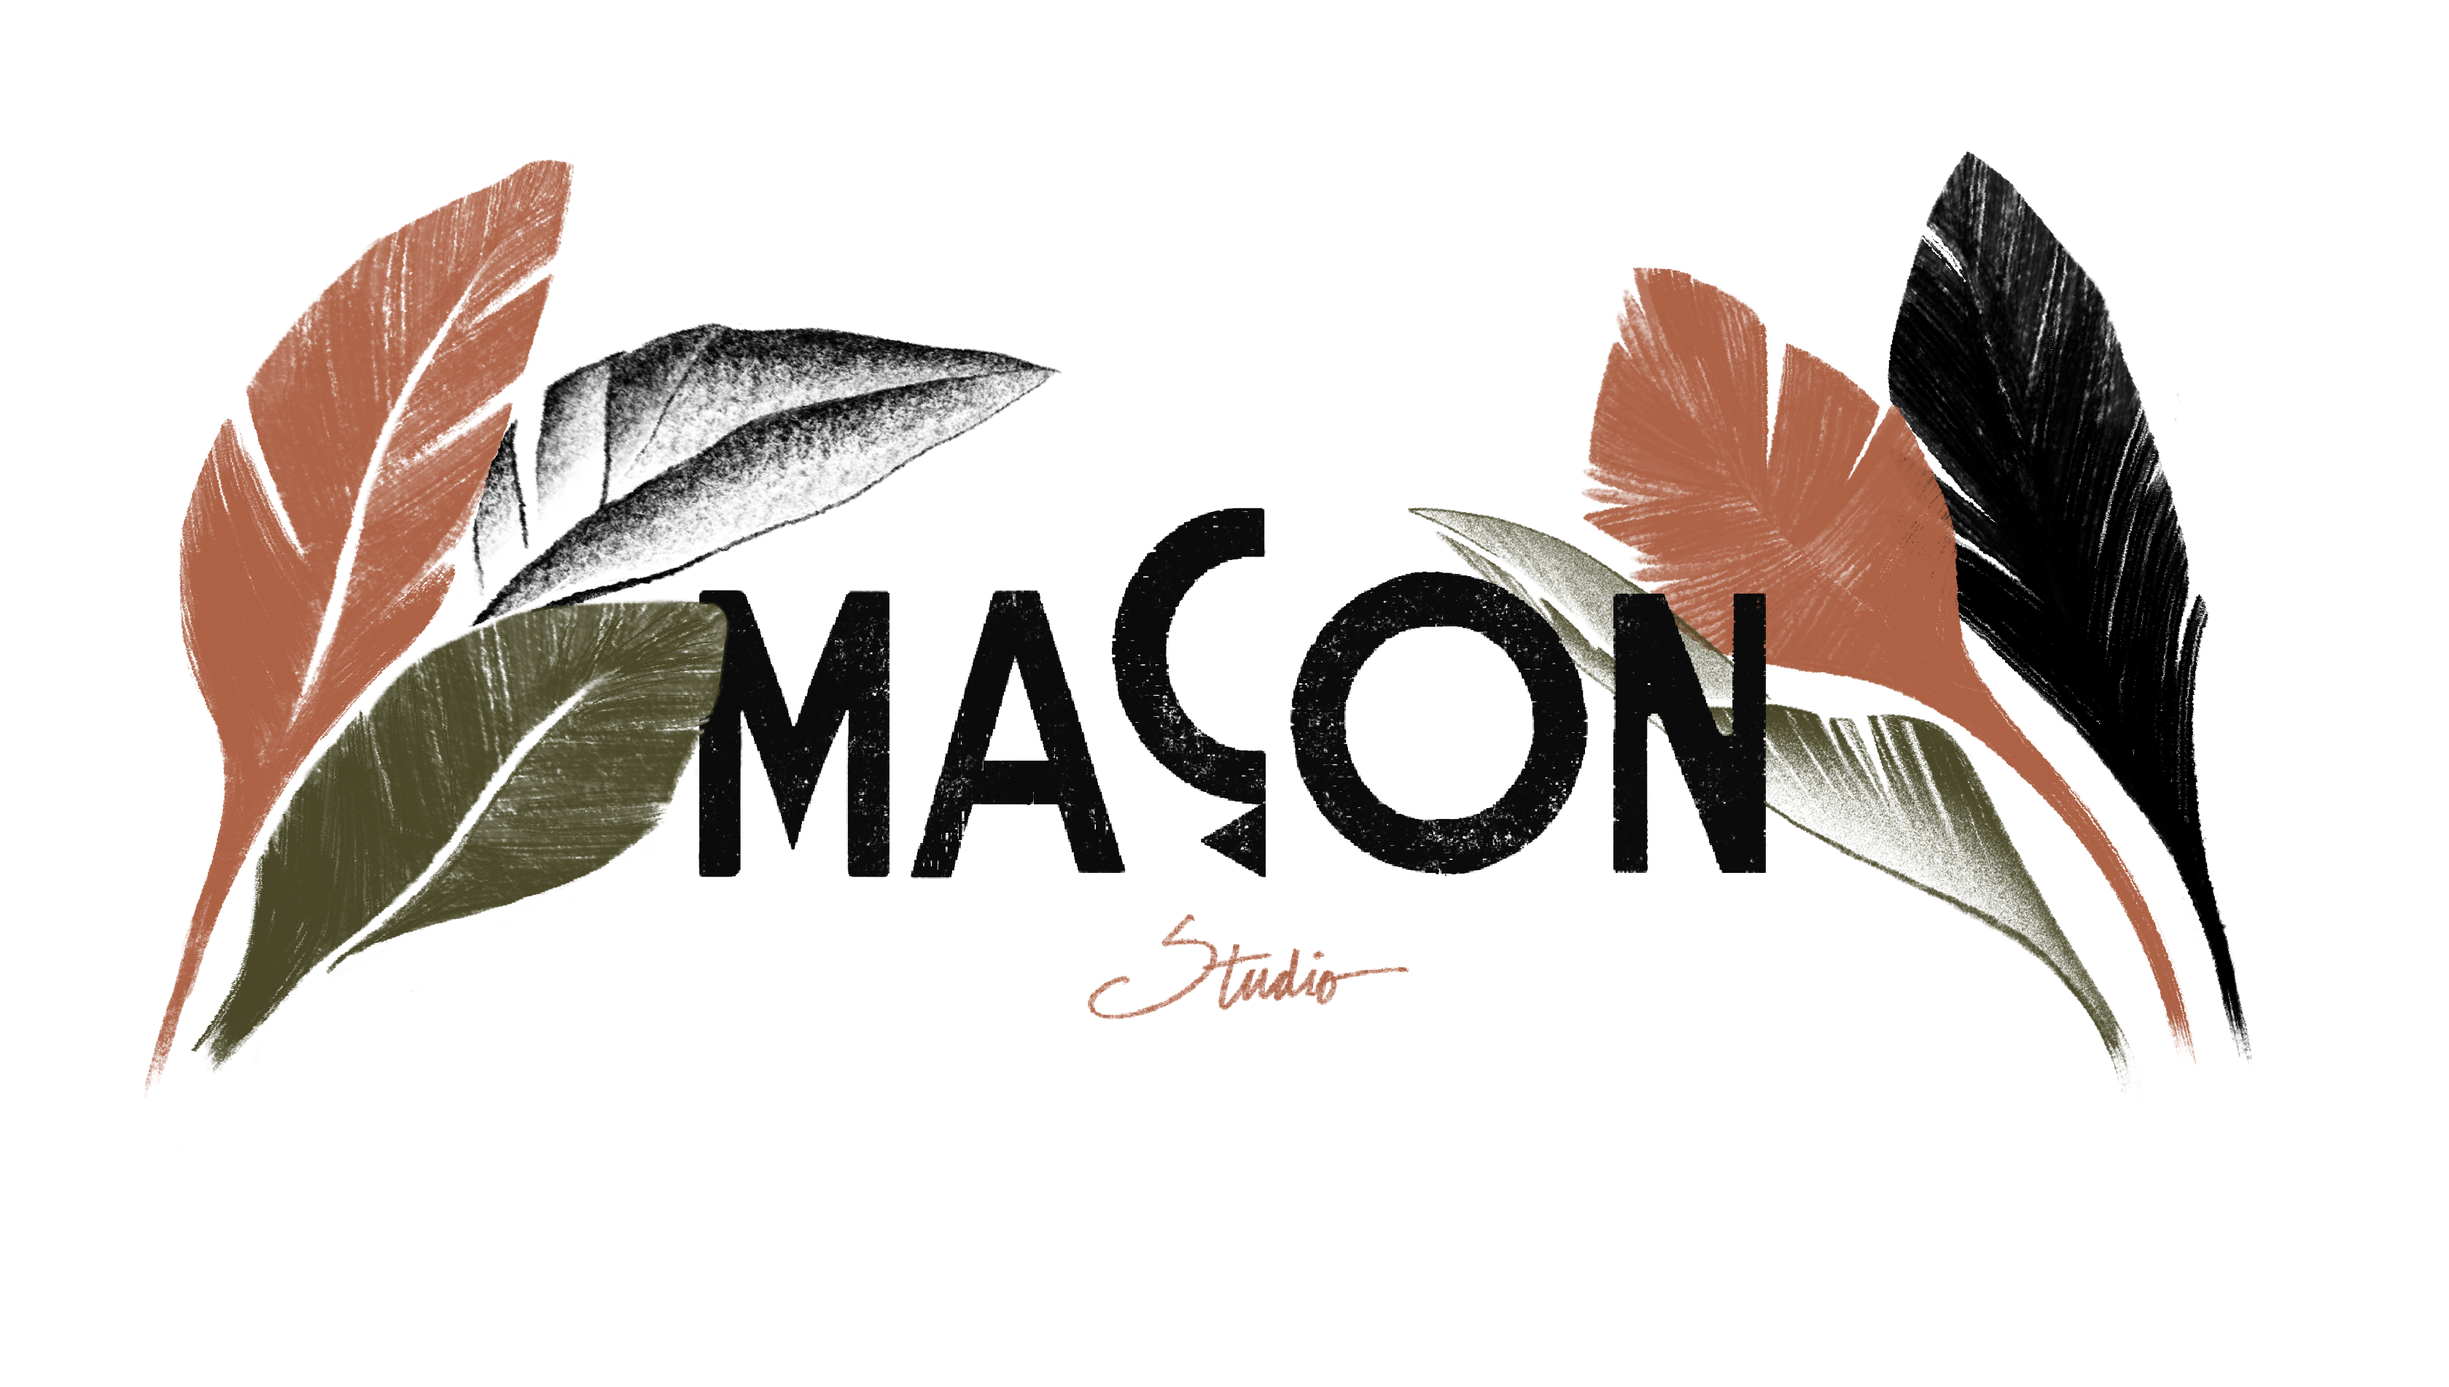
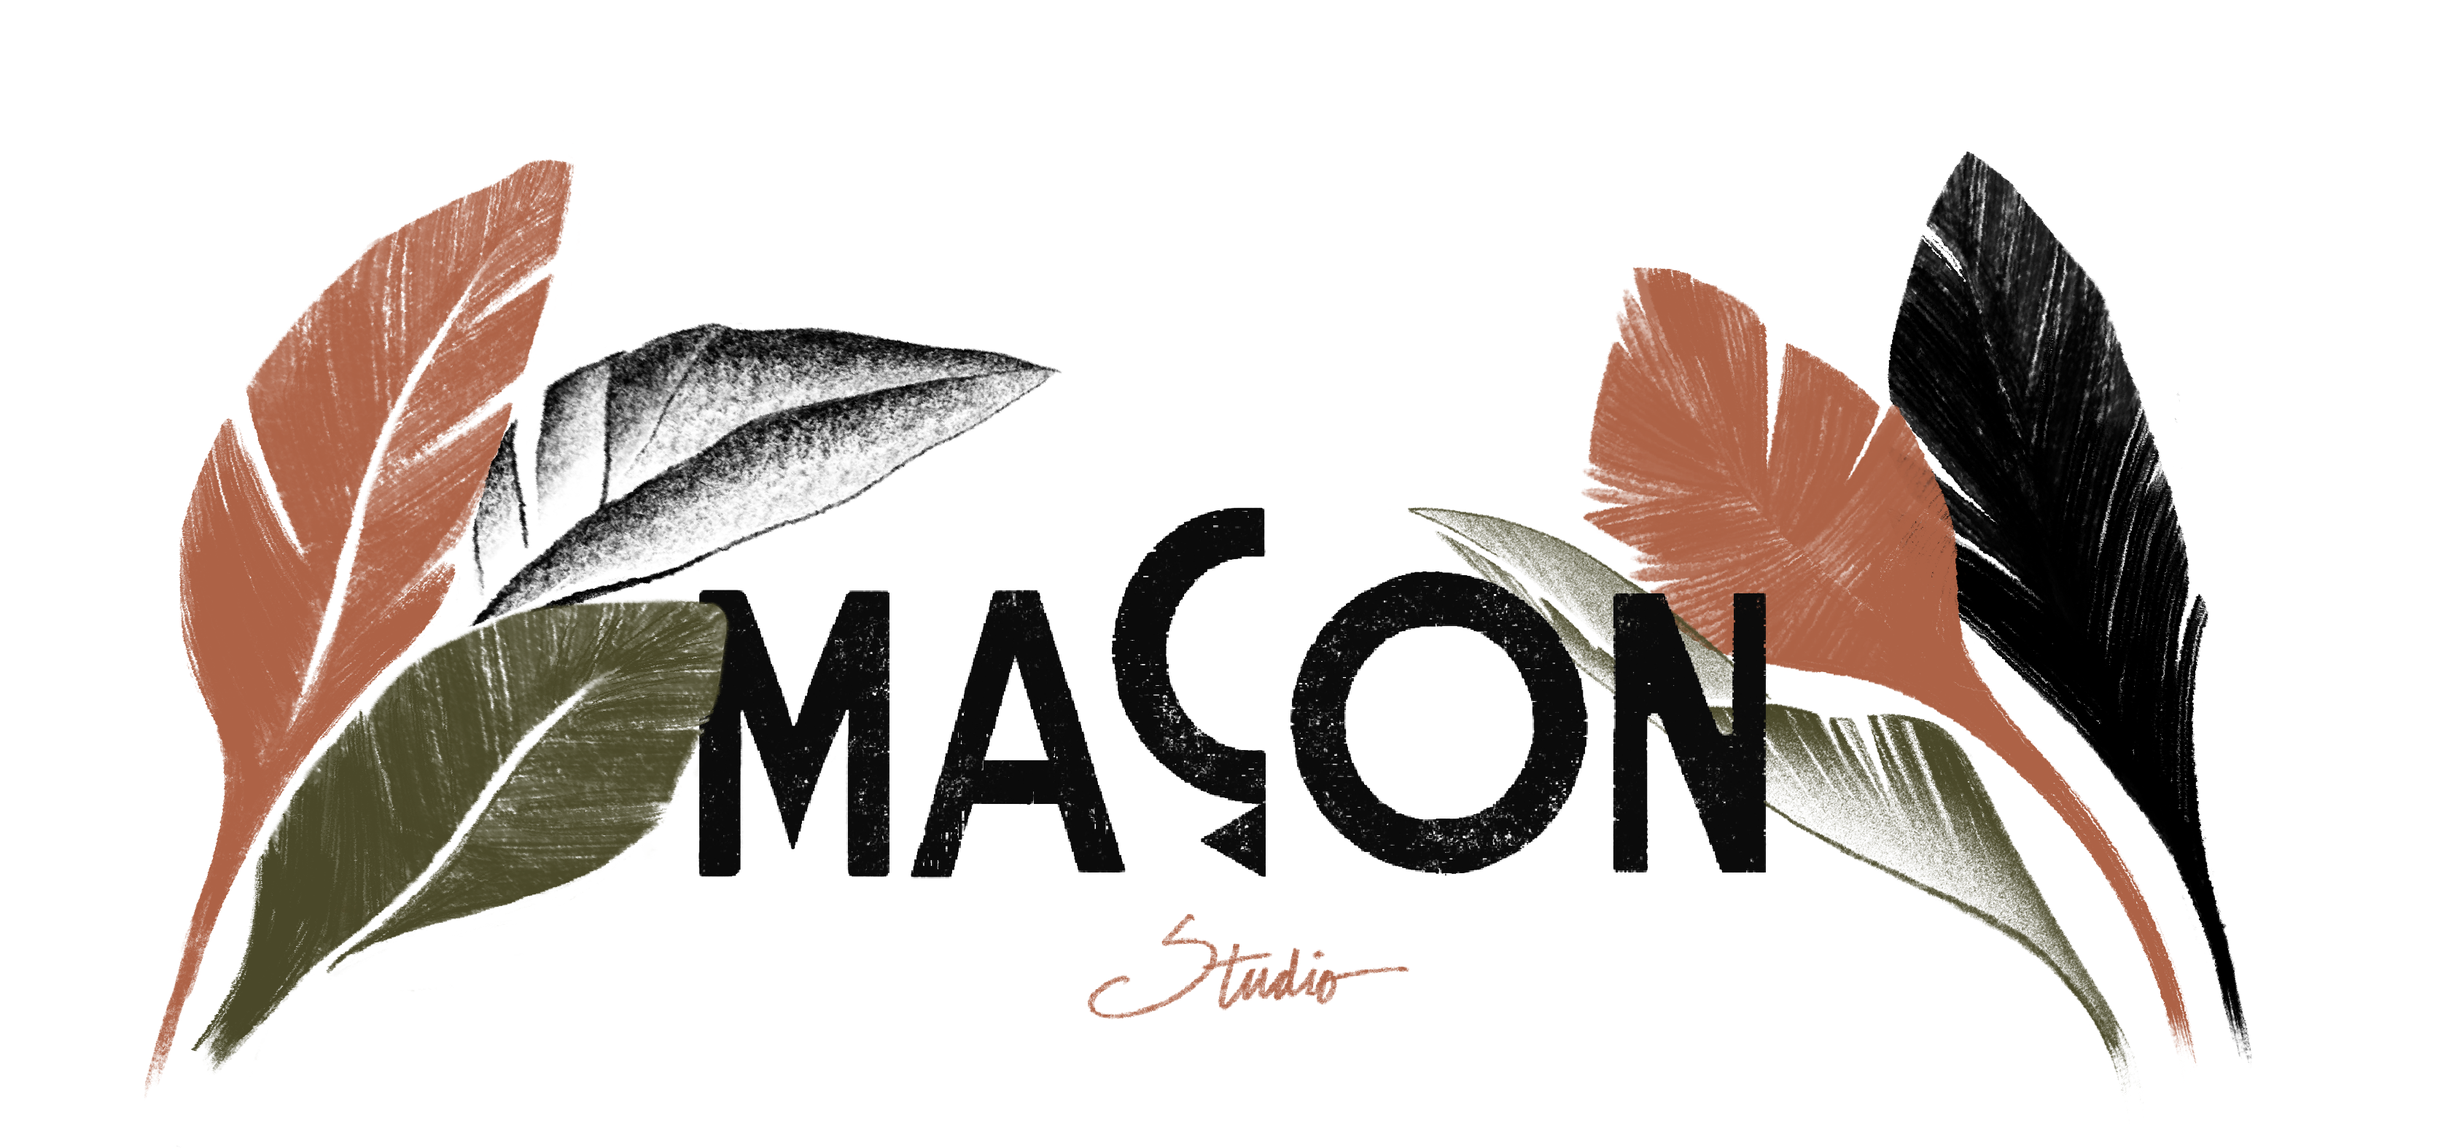
Crop 327px transparent tail from hero art; add asset cache-busting so replaced images take effect
The hero PNG carried a large transparent bottom margin, which pushed the tagline
visually low even though the box math was centered. Original kept in _source/.

Changed region(s): [[0.0619, 0.0933, 0.9288, 0.9333], [0.4335, 0.8089, 0.5573, 0.9022]]

diff --git a/index.html b/index.html
@@ -3,7 +3,7 @@
 <meta charset="utf-8"><meta name="viewport" content="width=device-width,initial-scale=1">
 <title>Shop ⚚ Studio Maçon</title><meta name="description" content="Limited-run and custom artifacts and jewelry designed, cast and finished by hand in California.">
 <link rel="icon" href="assets/favicon.png">
-<link rel="stylesheet" href="assets/site.css">
+<link rel="stylesheet" href="assets/site.css?v=1785770924">
 </head><body>
   <nav class="nav">
     <svg class="urn" viewBox="0 0 24 24" fill="none" stroke="var(--ink)" stroke-width="1.3"><path d="M8 3h8M9 3c0 2 1 3 3 3s3-1 3-3M7 8c0-1.5 2-2 5-2s5 .5 5 2c0 5-2 8-5 12-3-4-5-7-5-12Z"/></svg>
@@ -14,12 +14,12 @@
     <a href="index.html">Shop</a><a href="story.html">Story</a><a href="custom.html">Custom</a><a href="shipping.html">Shipping &amp; Returns</a><a href="contact.html">Contact</a>
   </div>
   <section class="hero">
-    <img class="hero-art" src="assets/hero.png" alt="Maçon">
+    <img class="hero-art" src="assets/hero.png?v=1785771134" alt="Maçon">
     <p class="tagline"><span class="dash">&mdash;</span><span class="tl">Limited-run and custom artifacts and jewelry designed, cast and finished by hand in California.</span><span class="dash">&mdash;</span></p>
   </section>
   <section class="shop">
     <div class="grid">
-      <img class="crest" src="assets/crest.png" alt="Maçon Bureau of Provenance">
+      <img class="crest" src="assets/crest.png?v=1785768682" alt="Maçon Bureau of Provenance">
       <a class="card" href="product/pip.html">
         <div class="card-img"><img src="images/products/pip-1.jpg" alt="Pip" loading="lazy"></div>
         <div class="card-name">Pip</div>
@@ -116,5 +116,5 @@
     <div class="links"><a href="story.html">Story</a><a href="custom.html">Custom</a><a href="shipping.html">Shipping &amp; Returns</a></div>
     <div class="fine">HANDMADE IN CALIFORNIA</div>
   </footer>
-<script src="assets/site.js"></script>
+<script src="assets/site.js?v=1785770596"></script>
 </body></html>

diff --git a/product/wonderhorn-talisman.html b/product/wonderhorn-talisman.html
@@ -3,7 +3,7 @@
 <meta charset="utf-8"><meta name="viewport" content="width=device-width,initial-scale=1">
 <title>Ida&#x27;s Wonder Horn | Studio Maçon</title><meta name="description" content="Spiral resonator reveals undiscovered chords. Lab equipment vibrates sympathetically; nearby children develop perfect pitch. Each piece is made to order; please allow up to two weeks for us to make your Ida&#x27;s Wonder Horn.">
 <link rel="icon" href="../assets/favicon.png">
-<link rel="stylesheet" href="../assets/site.css">
+<link rel="stylesheet" href="../assets/site.css?v=1785770924">
 </head><body>
   <nav class="nav">
     <svg class="urn" viewBox="0 0 24 24" fill="none" stroke="var(--ink)" stroke-width="1.3"><path d="M8 3h8M9 3c0 2 1 3 3 3s3-1 3-3M7 8c0-1.5 2-2 5-2s5 .5 5 2c0 5-2 8-5 12-3-4-5-7-5-12Z"/></svg>
@@ -38,5 +38,5 @@
     <div class="links"><a href="../story.html">Story</a><a href="../custom.html">Custom</a><a href="../shipping.html">Shipping &amp; Returns</a></div>
     <div class="fine">HANDMADE IN CALIFORNIA</div>
   </footer>
-<script src="../assets/site.js"></script>
+<script src="../assets/site.js?v=1785770596"></script>
 </body></html>

diff --git a/product/lunar-canyon-ring.html b/product/lunar-canyon-ring.html
@@ -3,7 +3,7 @@
 <meta charset="utf-8"><meta name="viewport" content="width=device-width,initial-scale=1">
 <title>Lunar Canyon | Studio Maçon</title><meta name="description" content="Sundered artifact forged from the core of a distant moon. Social gatherings reportedly ebb and flow in time with wearer&#x27;s presence. Each piece is made to order; please allow up to two weeks for us to make your Lunar Canyon Ring.">
 <link rel="icon" href="../assets/favicon.png">
-<link rel="stylesheet" href="../assets/site.css">
+<link rel="stylesheet" href="../assets/site.css?v=1785770924">
 </head><body>
   <nav class="nav">
     <svg class="urn" viewBox="0 0 24 24" fill="none" stroke="var(--ink)" stroke-width="1.3"><path d="M8 3h8M9 3c0 2 1 3 3 3s3-1 3-3M7 8c0-1.5 2-2 5-2s5 .5 5 2c0 5-2 8-5 12-3-4-5-7-5-12Z"/></svg>
@@ -38,5 +38,5 @@
     <div class="links"><a href="../story.html">Story</a><a href="../custom.html">Custom</a><a href="../shipping.html">Shipping &amp; Returns</a></div>
     <div class="fine">HANDMADE IN CALIFORNIA</div>
   </footer>
-<script src="../assets/site.js"></script>
+<script src="../assets/site.js?v=1785770596"></script>
 </body></html>

diff --git a/product/starshipkey-pendant.html b/product/starshipkey-pendant.html
@@ -3,7 +3,7 @@
 <meta charset="utf-8"><meta name="viewport" content="width=device-width,initial-scale=1">
 <title>Starship Key | Studio Maçon</title><meta name="description" content="Elegant device of stellar origin. Prolonged exposure known to cause wanderlust; researchers &amp;quot;forget&amp;quot; to return. Each piece is made to order; please allow up to two weeks for us to make your Starship Key for you.">
 <link rel="icon" href="../assets/favicon.png">
-<link rel="stylesheet" href="../assets/site.css">
+<link rel="stylesheet" href="../assets/site.css?v=1785770924">
 </head><body>
   <nav class="nav">
     <svg class="urn" viewBox="0 0 24 24" fill="none" stroke="var(--ink)" stroke-width="1.3"><path d="M8 3h8M9 3c0 2 1 3 3 3s3-1 3-3M7 8c0-1.5 2-2 5-2s5 .5 5 2c0 5-2 8-5 12-3-4-5-7-5-12Z"/></svg>
@@ -38,5 +38,5 @@
     <div class="links"><a href="../story.html">Story</a><a href="../custom.html">Custom</a><a href="../shipping.html">Shipping &amp; Returns</a></div>
     <div class="fine">HANDMADE IN CALIFORNIA</div>
   </footer>
-<script src="../assets/site.js"></script>
+<script src="../assets/site.js?v=1785770596"></script>
 </body></html>

diff --git a/product/sietch-aperture.html b/product/sietch-aperture.html
@@ -3,7 +3,7 @@
 <meta charset="utf-8"><meta name="viewport" content="width=device-width,initial-scale=1">
 <title>Sietch Ring | Studio Maçon</title><meta name="description" content="Recovered from the wake of a passing comet. Aperture reveals oscillating presence of landscapes that do not appear on any map. Each piece is made to order; please allow up to two weeks for us to make your Sietch Ring for you.">
 <link rel="icon" href="../assets/favicon.png">
-<link rel="stylesheet" href="../assets/site.css">
+<link rel="stylesheet" href="../assets/site.css?v=1785770924">
 </head><body>
   <nav class="nav">
     <svg class="urn" viewBox="0 0 24 24" fill="none" stroke="var(--ink)" stroke-width="1.3"><path d="M8 3h8M9 3c0 2 1 3 3 3s3-1 3-3M7 8c0-1.5 2-2 5-2s5 .5 5 2c0 5-2 8-5 12-3-4-5-7-5-12Z"/></svg>
@@ -38,5 +38,5 @@
     <div class="links"><a href="../story.html">Story</a><a href="../custom.html">Custom</a><a href="../shipping.html">Shipping &amp; Returns</a></div>
     <div class="fine">HANDMADE IN CALIFORNIA</div>
   </footer>
-<script src="../assets/site.js"></script>
+<script src="../assets/site.js?v=1785770596"></script>
 </body></html>

diff --git a/product/eclipse-ring.html b/product/eclipse-ring.html
@@ -3,7 +3,7 @@
 <meta charset="utf-8"><meta name="viewport" content="width=device-width,initial-scale=1">
 <title>Eclipse Ring | Studio Maçon</title><meta name="description" content="Asymmetric ellipses locked in patient equilibrium. The space between holds questions only stars can answer. Each piece is made to order; please allow up to two weeks for us to make your Eclipse Ring.">
 <link rel="icon" href="../assets/favicon.png">
-<link rel="stylesheet" href="../assets/site.css">
+<link rel="stylesheet" href="../assets/site.css?v=1785770924">
 </head><body>
   <nav class="nav">
     <svg class="urn" viewBox="0 0 24 24" fill="none" stroke="var(--ink)" stroke-width="1.3"><path d="M8 3h8M9 3c0 2 1 3 3 3s3-1 3-3M7 8c0-1.5 2-2 5-2s5 .5 5 2c0 5-2 8-5 12-3-4-5-7-5-12Z"/></svg>
@@ -38,5 +38,5 @@
     <div class="links"><a href="../story.html">Story</a><a href="../custom.html">Custom</a><a href="../shipping.html">Shipping &amp; Returns</a></div>
     <div class="fine">HANDMADE IN CALIFORNIA</div>
   </footer>
-<script src="../assets/site.js"></script>
+<script src="../assets/site.js?v=1785770596"></script>
 </body></html>

diff --git a/product/ear-cuff.html b/product/ear-cuff.html
@@ -3,7 +3,7 @@
 <meta charset="utf-8"><meta name="viewport" content="width=device-width,initial-scale=1">
 <title>Caldera Arc | Studio Maçon</title><meta name="description" content="Perfect geometries betray cosmic provenance. Light fractures into otherworldy spectra across mirrored edge. Each piece is made to order; please allow up to two weeks for us to make your Caldera Arc.">
 <link rel="icon" href="../assets/favicon.png">
-<link rel="stylesheet" href="../assets/site.css">
+<link rel="stylesheet" href="../assets/site.css?v=1785770924">
 </head><body>
   <nav class="nav">
     <svg class="urn" viewBox="0 0 24 24" fill="none" stroke="var(--ink)" stroke-width="1.3"><path d="M8 3h8M9 3c0 2 1 3 3 3s3-1 3-3M7 8c0-1.5 2-2 5-2s5 .5 5 2c0 5-2 8-5 12-3-4-5-7-5-12Z"/></svg>
@@ -33,5 +33,5 @@
     <div class="links"><a href="../story.html">Story</a><a href="../custom.html">Custom</a><a href="../shipping.html">Shipping &amp; Returns</a></div>
     <div class="fine">HANDMADE IN CALIFORNIA</div>
   </footer>
-<script src="../assets/site.js"></script>
+<script src="../assets/site.js?v=1785770596"></script>
 </body></html>

diff --git a/product/rebi.html b/product/rebi.html
@@ -3,7 +3,7 @@
 <meta charset="utf-8"><meta name="viewport" content="width=device-width,initial-scale=1">
 <title>Rebi | Studio Maçon</title><meta name="description" content="Exhibits fluid properties, perceived silhouette in flux. Researchers report heightened reflexes after handling. Each totem is made to order; please allow up to two weeks for us to make Rebi for you.">
 <link rel="icon" href="../assets/favicon.png">
-<link rel="stylesheet" href="../assets/site.css">
+<link rel="stylesheet" href="../assets/site.css?v=1785770924">
 </head><body>
   <nav class="nav">
     <svg class="urn" viewBox="0 0 24 24" fill="none" stroke="var(--ink)" stroke-width="1.3"><path d="M8 3h8M9 3c0 2 1 3 3 3s3-1 3-3M7 8c0-1.5 2-2 5-2s5 .5 5 2c0 5-2 8-5 12-3-4-5-7-5-12Z"/></svg>
@@ -38,5 +38,5 @@
     <div class="links"><a href="../story.html">Story</a><a href="../custom.html">Custom</a><a href="../shipping.html">Shipping &amp; Returns</a></div>
     <div class="fine">HANDMADE IN CALIFORNIA</div>
   </footer>
-<script src="../assets/site.js"></script>
+<script src="../assets/site.js?v=1785770596"></script>
 </body></html>

diff --git a/product/zuma-ring.html b/product/zuma-ring.html
@@ -3,7 +3,7 @@
 <meta charset="utf-8"><meta name="viewport" content="width=device-width,initial-scale=1">
 <title>Zuma Ring | Studio Maçon</title><meta name="description" content="Sand spirit distilled to sacred heirloom. Unearthed glyphs show evidence of rituals with paired totem. Each piece is made to order; please allow up to two weeks for us to make your Zuma Ring.">
 <link rel="icon" href="../assets/favicon.png">
-<link rel="stylesheet" href="../assets/site.css">
+<link rel="stylesheet" href="../assets/site.css?v=1785770924">
 </head><body>
   <nav class="nav">
     <svg class="urn" viewBox="0 0 24 24" fill="none" stroke="var(--ink)" stroke-width="1.3"><path d="M8 3h8M9 3c0 2 1 3 3 3s3-1 3-3M7 8c0-1.5 2-2 5-2s5 .5 5 2c0 5-2 8-5 12-3-4-5-7-5-12Z"/></svg>
@@ -38,5 +38,5 @@
     <div class="links"><a href="../story.html">Story</a><a href="../custom.html">Custom</a><a href="../shipping.html">Shipping &amp; Returns</a></div>
     <div class="fine">HANDMADE IN CALIFORNIA</div>
   </footer>
-<script src="../assets/site.js"></script>
+<script src="../assets/site.js?v=1785770596"></script>
 </body></html>

diff --git a/product/meridian-egg-ring.html b/product/meridian-egg-ring.html
@@ -3,7 +3,7 @@
 <meta charset="utf-8"><meta name="viewport" content="width=device-width,initial-scale=1">
 <title>Meridian Egg | Studio Maçon</title><meta name="description" content="Weight exceeds material expectations. Metaphyiscal analysis detects abyss gazing back. Each piece is made to order; please allow up to two weeks for us to make your Meridian Egg.">
 <link rel="icon" href="../assets/favicon.png">
-<link rel="stylesheet" href="../assets/site.css">
+<link rel="stylesheet" href="../assets/site.css?v=1785770924">
 </head><body>
   <nav class="nav">
     <svg class="urn" viewBox="0 0 24 24" fill="none" stroke="var(--ink)" stroke-width="1.3"><path d="M8 3h8M9 3c0 2 1 3 3 3s3-1 3-3M7 8c0-1.5 2-2 5-2s5 .5 5 2c0 5-2 8-5 12-3-4-5-7-5-12Z"/></svg>
@@ -38,5 +38,5 @@
     <div class="links"><a href="../story.html">Story</a><a href="../custom.html">Custom</a><a href="../shipping.html">Shipping &amp; Returns</a></div>
     <div class="fine">HANDMADE IN CALIFORNIA</div>
   </footer>
-<script src="../assets/site.js"></script>
+<script src="../assets/site.js?v=1785770596"></script>
 </body></html>

diff --git a/product/pip.html b/product/pip.html
@@ -3,7 +3,7 @@
 <meta charset="utf-8"><meta name="viewport" content="width=device-width,initial-scale=1">
 <title>Pip | Studio Maçon</title><meta name="description" content="Tiny keeper of tenderness. Proximity induces unexpected comfort; scholars remain blissfully baffled. Each totem is made to order; please allow up to two weeks for us to make Pip for you.">
 <link rel="icon" href="../assets/favicon.png">
-<link rel="stylesheet" href="../assets/site.css">
+<link rel="stylesheet" href="../assets/site.css?v=1785770924">
 </head><body>
   <nav class="nav">
     <svg class="urn" viewBox="0 0 24 24" fill="none" stroke="var(--ink)" stroke-width="1.3"><path d="M8 3h8M9 3c0 2 1 3 3 3s3-1 3-3M7 8c0-1.5 2-2 5-2s5 .5 5 2c0 5-2 8-5 12-3-4-5-7-5-12Z"/></svg>
@@ -38,5 +38,5 @@
     <div class="links"><a href="../story.html">Story</a><a href="../custom.html">Custom</a><a href="../shipping.html">Shipping &amp; Returns</a></div>
     <div class="fine">HANDMADE IN CALIFORNIA</div>
   </footer>
-<script src="../assets/site.js"></script>
+<script src="../assets/site.js?v=1785770596"></script>
 </body></html>

diff --git a/product/zuma.html b/product/zuma.html
@@ -3,7 +3,7 @@
 <meta charset="utf-8"><meta name="viewport" content="width=device-width,initial-scale=1">
 <title>Zuma | Studio Maçon</title><meta name="description" content="Desert spirit present. Namesake ring awakens dormant essence; ancient runes suggest sacred link. Each totem is made to order; please allow up to two weeks for us to make Zuma for you.">
 <link rel="icon" href="../assets/favicon.png">
-<link rel="stylesheet" href="../assets/site.css">
+<link rel="stylesheet" href="../assets/site.css?v=1785770924">
 </head><body>
   <nav class="nav">
     <svg class="urn" viewBox="0 0 24 24" fill="none" stroke="var(--ink)" stroke-width="1.3"><path d="M8 3h8M9 3c0 2 1 3 3 3s3-1 3-3M7 8c0-1.5 2-2 5-2s5 .5 5 2c0 5-2 8-5 12-3-4-5-7-5-12Z"/></svg>
@@ -38,5 +38,5 @@
     <div class="links"><a href="../story.html">Story</a><a href="../custom.html">Custom</a><a href="../shipping.html">Shipping &amp; Returns</a></div>
     <div class="fine">HANDMADE IN CALIFORNIA</div>
   </footer>
-<script src="../assets/site.js"></script>
+<script src="../assets/site.js?v=1785770596"></script>
 </body></html>
